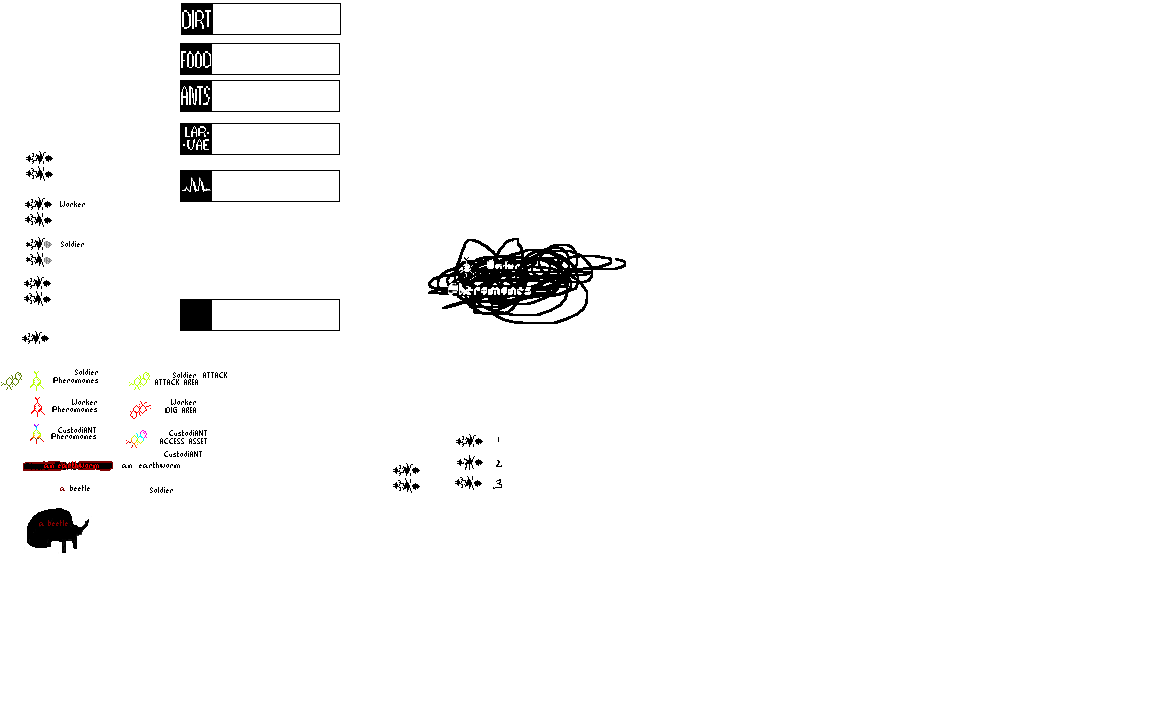
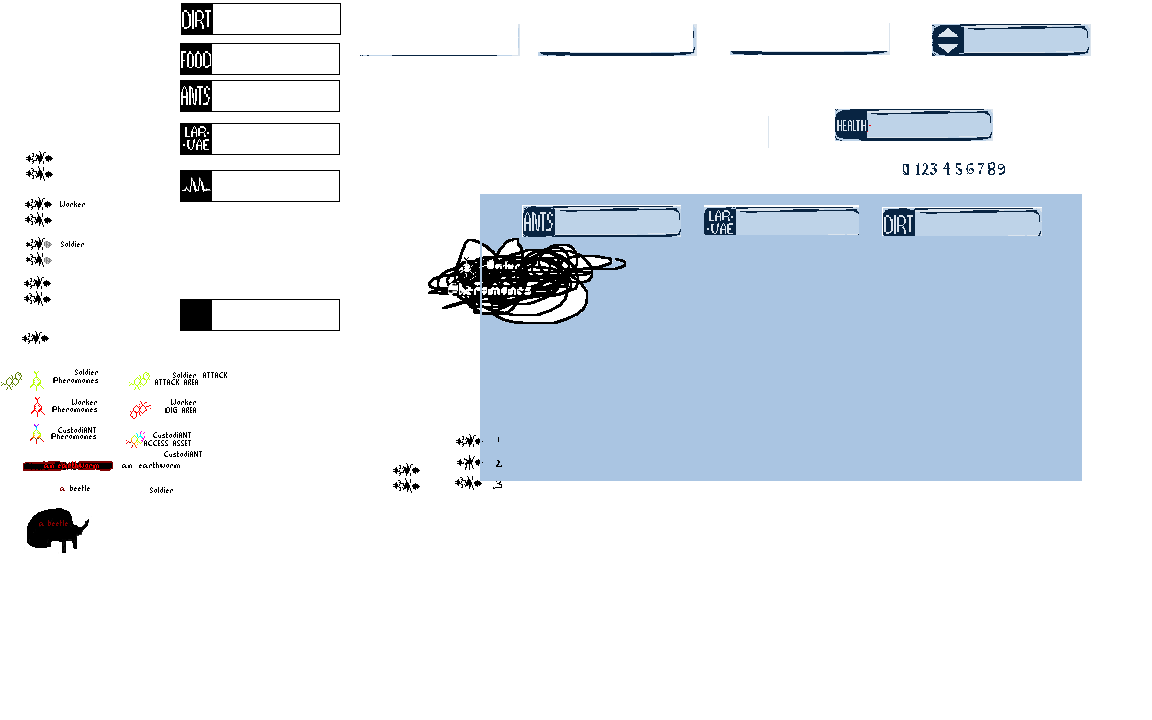
Added rotation to Queen

diff --git a/PuissANT/PuissANT/Actors/Ants/QueenAnt.cs b/PuissANT/PuissANT/Actors/Ants/QueenAnt.cs
@@ -18,6 +18,7 @@ namespace PuissANT.Actors.Ants
         private float aniTimer;
         private int frame;
 
+        private float[] _histAngle = new float[4];
         private float _angle;
         private bool _nestFound;
 
@@ -39,9 +40,6 @@ namespace PuissANT.Actors.Ants
                 frame = ++frame % 3;
                 _drawingWindow = new Rectangle(0, frame*20, 30, 20);
                 aniTimer = 0;
-            // calculate angle ant is facing
-            Vector2 facing = new Vector2(_position.X - oldPosition.X, _position.Y - oldPosition.Y);
-            if (facing != Vector2.Zero) _angle = MathHelper.PiOver2 + (float)Math.Atan2(facing.Y, facing.X);
             }
 
             if (_nestFound) return;
@@ -63,11 +61,31 @@ namespace PuissANT.Actors.Ants
                 Target = GetNewTarget<NestPheromone>();
             }
 
+            // calculate angle ant is facing as an average of the prior 
+            // four directions
+            _histAngle[3] = _histAngle[2];
+            _histAngle[2] = _histAngle[1];
+            _histAngle[1] = _histAngle[0];
+
+            // calculate angle ant is facing
+            Vector2 facing = new Vector2(_position.X - oldPosition.X, _position.Y - oldPosition.Y);
+            if (facing != Vector2.Zero) _histAngle[0] = (float)Math.Atan2(facing.Y, facing.X);
+            float avgAngle = (_histAngle[3] + _histAngle[2] + _histAngle[1] + _histAngle[0]) / 4;
+            if (avgAngle <= MathHelper.PiOver4 && avgAngle >= MathHelper.PiOver4)
+                _angle = 0;
+            else if (avgAngle > MathHelper.PiOver4 && avgAngle < 3 * MathHelper.PiOver4)
+                _angle = MathHelper.PiOver2;
+            else if (avgAngle < -MathHelper.PiOver4 && avgAngle > 3 * -MathHelper.PiOver4)
+                _angle = -MathHelper.PiOver2;
+            else
+                _angle = MathHelper.Pi;
+            //_angle -= MathHelper.PiOver2;
         }
 
         public override void Render(GameTime time, SpriteBatch batch)
         {
-            batch.Draw(_texture, _texturePoint, _drawingWindow, Color.White, _angle, new Vector2(15,10), 1, SpriteEffects.None, 0);
+            batch.Draw(_texture, _texturePoint + new Vector2(15,10), _drawingWindow, Color.White, _angle, new Vector2(15,10), 1, SpriteEffects.FlipHorizontally, 0);
+            //base.Render(time, batch);
         }
     }
 }

diff --git a/PuissANT/PuissANT/Game1.cs b/PuissANT/PuissANT/Game1.cs
@@ -79,7 +79,7 @@ namespace PuissANT
             Texture2D soldierPhermone = Content.Load<Texture2D>("phermones/SoldierPhermone");
             
             int gameWindowVerticalOffset = (int)ScreenManager.Instance.UiManager.PanelList[0].Dimensions.Y;
-            int gameWindowHorizontalOffset = (int)ScreenManager.Instance.UiManager.PanelList[1].Dimensions.X;
+            int gameWindowHorizontalOffset = 0; //(int)ScreenManager.Instance.UiManager.PanelList[1].Dimensions.X;
 
             GameWindow = new Rectangle(0, gameWindowVerticalOffset,
                 (int)ScreenManager.Instance.ScreenSize.X - gameWindowHorizontalOffset,

diff --git a/PuissANT/PuissANT/Ui/UiManager.cs b/PuissANT/PuissANT/Ui/UiManager.cs
@@ -22,7 +22,7 @@ namespace PuissANT.Ui
         {
             _panels = new List<IPanel>();
             _panels.Add(new StatsPanel());
-            _panels.Add(new CommandPanel());
+            //_panels.Add(new CommandPanel());
         }
 
         public void LoadContent()
